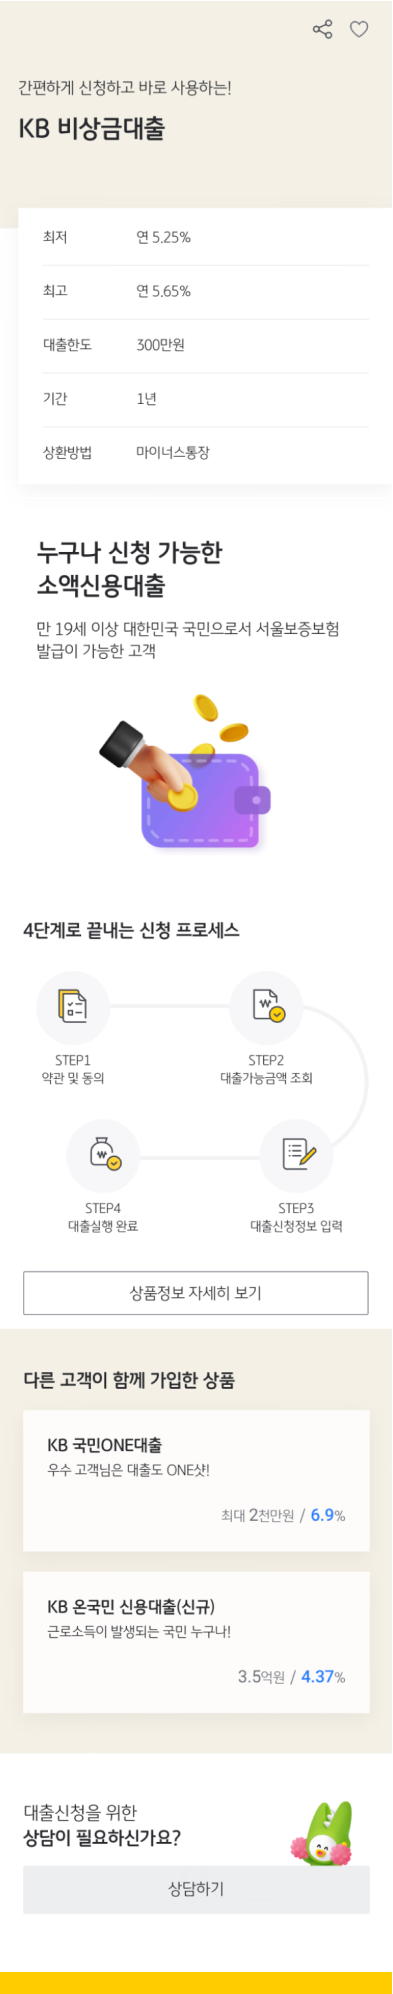
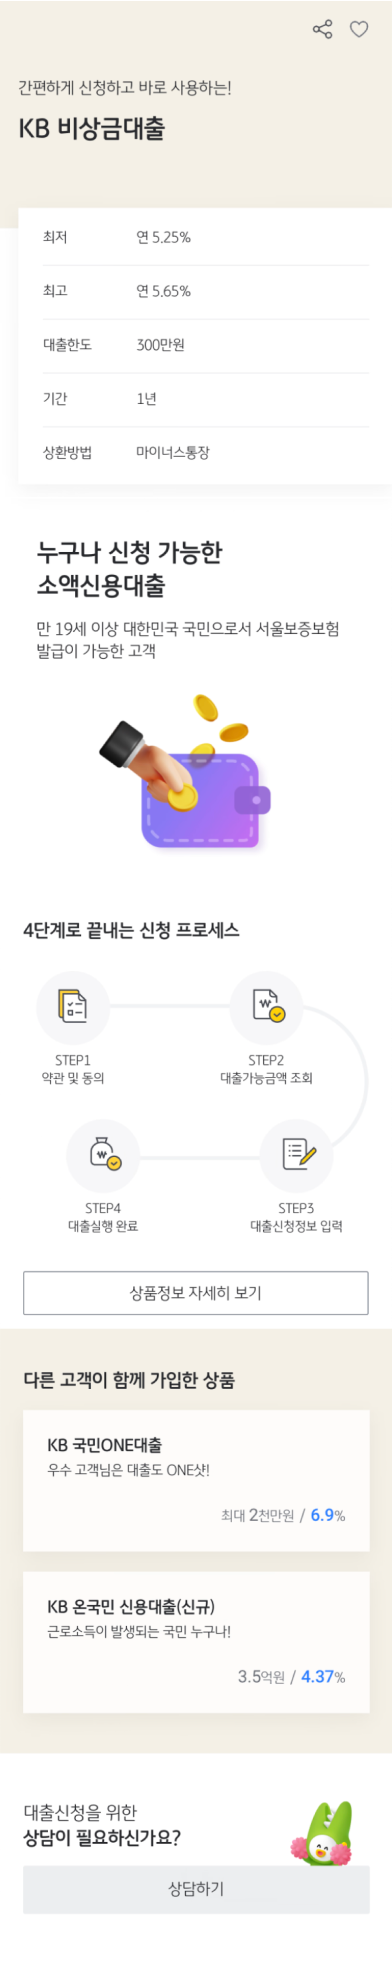
fix: LoanInfoNotice.vue 페이지 padding 예외 적용처리

diff --git a/frontend/src/views/loanInfo/LoanInfoNotice.vue b/frontend/src/views/loanInfo/LoanInfoNotice.vue
@@ -1,135 +1,140 @@
 <template>
-
+  <div class="mobile-container">
     <!-- 모달 컴포넌트 -->
     <v-dialog v-model="dialog" width="800">
-        <v-card>
-            <v-card-title class="text-center">처음 배우는 대출
-
-            </v-card-title>
-            <!-- <v-card-actions>
+      <v-card>
+        <v-card-title class="text-center">처음 배우는 대출 </v-card-title>
+        <!-- <v-card-actions>
                 <v-spacer>처음 배우는 대출</v-spacer>
                 <v-btn @click="dialog = false" icon="mdi-close"></v-btn>
             </v-card-actions> -->
 
-            <v-carousel cycle height="400" hide-delimiter-background show-arrows="hover">
-                <v-carousel-item v-for="(item, i) in slides" :key="i">
-                    <v-img :src="item.src" height="100%" cover></v-img>
-                </v-carousel-item>
-            </v-carousel>
-            <v-card-actions>
-                <v-spacer></v-spacer>
-                <v-btn @click="dialog = false"> 닫기 </v-btn>
-            </v-card-actions>
-
-        </v-card>
+        <v-carousel
+          cycle
+          height="400"
+          hide-delimiter-background
+          show-arrows="hover"
+        >
+          <v-carousel-item v-for="(item, i) in slides" :key="i">
+            <v-img :src="item.src" height="100%" cover></v-img>
+          </v-carousel-item>
+        </v-carousel>
+        <v-card-actions>
+          <v-spacer></v-spacer>
+          <v-btn @click="dialog = false"> 닫기 </v-btn>
+        </v-card-actions>
+      </v-card>
     </v-dialog>
-    <div class="mobile-container">
-        <div class="background-image-container">
-            <img src="../../assets/img/loanInfo.png" alt="background" class="background-image">
-        </div>
-
-        <!-- 하단 고정 버튼 -->
-        <div class="fixed-container">
-            <div class="d-flex justify-end mb-4 mr-4">
-                <v-btn @click="dialog = true" icon="mdi-book-open-page-variant-outline"></v-btn>
-            </div>
-            <button class="action-button">
-                시작하기
-            </button>
-        </div>
+    <!-- <div class="mobile-container"> -->
+    <div class="background-image-container">
+      <img
+        src="../../assets/img/loanInfo.png"
+        alt="background"
+        class="background-image"
+      />
     </div>
 
+    <!-- 하단 고정 버튼 -->
+    <div class="fixed-container">
+      <div class="d-flex justify-end mb-4 mr-4">
+        <v-btn
+          @click="dialog = true"
+          icon="mdi-book-open-page-variant-outline"
+        ></v-btn>
+      </div>
+      <button class="action-button">시작하기</button>
+    </div>
+  </div>
 </template>
 
-
 <script setup>
-import { ref } from 'vue'
-import info1 from '@/assets/img/info1.png'
-import info2 from '@/assets/img/info2.png'
-import info3 from '@/assets/img/info3.png'
-import info4 from '@/assets/img/info4.png'
-import info5 from '@/assets/img/info5.png'
-import info6 from '@/assets/img/info6.png'
-import info7 from '@/assets/img/info7.png'
+import { ref } from "vue";
+import info1 from "@/assets/img/info1.png";
+import info2 from "@/assets/img/info2.png";
+import info3 from "@/assets/img/info3.png";
+import info4 from "@/assets/img/info4.png";
+import info5 from "@/assets/img/info5.png";
+import info6 from "@/assets/img/info6.png";
+import info7 from "@/assets/img/info7.png";
 
-const dialog = ref(false)
+const dialog = ref(false);
 const slides = ref([
-    {
-        src: info1
-    },
-    {
-        src: info2
-    },
-    {
-        src: info3
-    },
-    {
-        src: info4
-    },
-    {
-        src: info5
-    },
-    {
-        src: info6
-    },
-    {
-        src: info7
-    },
-])
+  {
+    src: info1,
+  },
+  {
+    src: info2,
+  },
+  {
+    src: info3,
+  },
+  {
+    src: info4,
+  },
+  {
+    src: info5,
+  },
+  {
+    src: info6,
+  },
+  {
+    src: info7,
+  },
+]);
 </script>
 
-<style>
+<style scoped>
 .mobile-container {
-    position: relative;
-    /* max-width: var(--max-width); */
-    min-height: 100vh;
-    margin: 0 auto;
-    padding: 0;
-    background: #ffffff;
-    overflow-y: auto;
+  position: relative;
+  /* max-width: var(--max-width); */
+  min-height: 100vh;
+  margin: 0 auto;
+  padding: 0;
+  background: #ffffff;
+  overflow-y: auto;
 }
 
 .background-image-container {
-    width: 100%;
+  width: 100%;
 }
 
 .background-image {
-    width: 100%;
-    height: auto;
-    display: block;
+  width: 100%;
+  height: auto;
+  display: block;
 }
 
 .fixed-container {
-    max-width: 390px;
-    position: fixed;
-    bottom: 0;
-    left: 0;
-    right: 0;
-    /* padding: 16px; */
-    background: transparent;
-    z-index: 1000;
-    /* padding-bottom: calc(16px + env(safe-area-inset-bottom, 0px)); */
-    /* max-width: var(--max-width); */
-    margin: 0 auto;
+  max-width: 390px;
+  position: fixed;
+  bottom: 0;
+  left: 0;
+  right: 0;
+  /* padding: 16px; */
+  background: transparent;
+  z-index: 1000;
+  /* padding-bottom: calc(16px + env(safe-area-inset-bottom, 0px)); */
+  /* max-width: var(--max-width); */
+  margin: 0 auto;
 }
 
 .action-button {
-    width: 100%;
-    height: 56px;
-    /* border-radius: 28px; */
-    background-color: #FFCC00;
-    color: white;
-    border: none;
-    font-size: 18px;
-    font-weight: bold;
-    cursor: pointer;
-    box-shadow: 0 4px 8px rgba(0, 0, 0, 0.2);
-    transition: transform 0.2s, box-shadow 0.2s;
+  width: 100%;
+  height: 56px;
+  /* border-radius: 28px; */
+  background-color: #ffcc00;
+  color: white;
+  border: none;
+  font-size: 18px;
+  font-weight: bold;
+  cursor: pointer;
+  box-shadow: 0 4px 8px rgba(0, 0, 0, 0.2);
+  transition: transform 0.2s, box-shadow 0.2s;
 }
 
 /* 버튼 호버/액티브 효과 */
 .action-button:active {
-    transform: scale(0.98);
-    box-shadow: 0 2px 4px rgba(0, 0, 0, 0.2);
+  transform: scale(0.98);
+  box-shadow: 0 2px 4px rgba(0, 0, 0, 0.2);
 }
 </style>

diff --git a/frontend/src/App.vue b/frontend/src/App.vue
@@ -6,13 +6,17 @@
       <v-app-bar-title class="custom-title">{{
         isNotificationsPage ? "알림함" : "I’m not LOANly"
       }}</v-app-bar-title>
-      <v-btn v-if="!isNotificationsPage" icon="mdi-bell-outline" @click="goToNotifications"></v-btn>
+      <v-btn
+        v-if="!isNotificationsPage"
+        icon="mdi-bell-outline"
+        @click="goToNotifications"
+      ></v-btn>
       <v-btn icon="mdi-home"></v-btn>
       <v-app-bar-nav-icon></v-app-bar-nav-icon>
     </v-app-bar>
     <!-- Main -->
     <v-main class="custom-main">
-      <v-container fluid class="custom-container">
+      <v-container fluid class="custom-container" :style="containerStyle">
         <router-view />
       </v-container>
     </v-main>
@@ -50,8 +54,17 @@ const goBack = () => {
   router.back();
 };
 
+// LoanInfoNotice.vue 페이지에서만 적용할 스타일
+const containerStyle = computed(() => {
+  return route.path === "/loan-info-notice" ? { padding: "0 0 24px 0" } : {};
+});
+
 // 푸터 숨김 여부
-const footerHiddenRoutes = ["/loan-input", "/loan-complete", "/loan-info-notice"]; // 푸터를 숨길 라우트 경로 추가
+const footerHiddenRoutes = [
+  "/loan-input",
+  "/loan-complete",
+  "/loan-info-notice",
+]; // 푸터를 숨길 라우트 경로 추가
 
 // 현재 라우트가 footerHiddenRoutes 배열에 있는지 확인
 const hideFooter = computed(() => footerHiddenRoutes.includes(route.path));
@@ -59,7 +72,7 @@ const hideFooter = computed(() => footerHiddenRoutes.includes(route.path));
 
 <style scoped>
 .custom-app-bar {
-  max-width: 400px;
+  max-width: 430px;
   /* Apply the same max-width as mobile-wrapper */
   margin: 0 auto;
   left: 0;
@@ -71,7 +84,7 @@ const hideFooter = computed(() => footerHiddenRoutes.includes(route.path));
 }
 
 .custom-main {
-  padding-top: 50px;
+  padding-top: 64px;
 }
 
 .custom-container {
